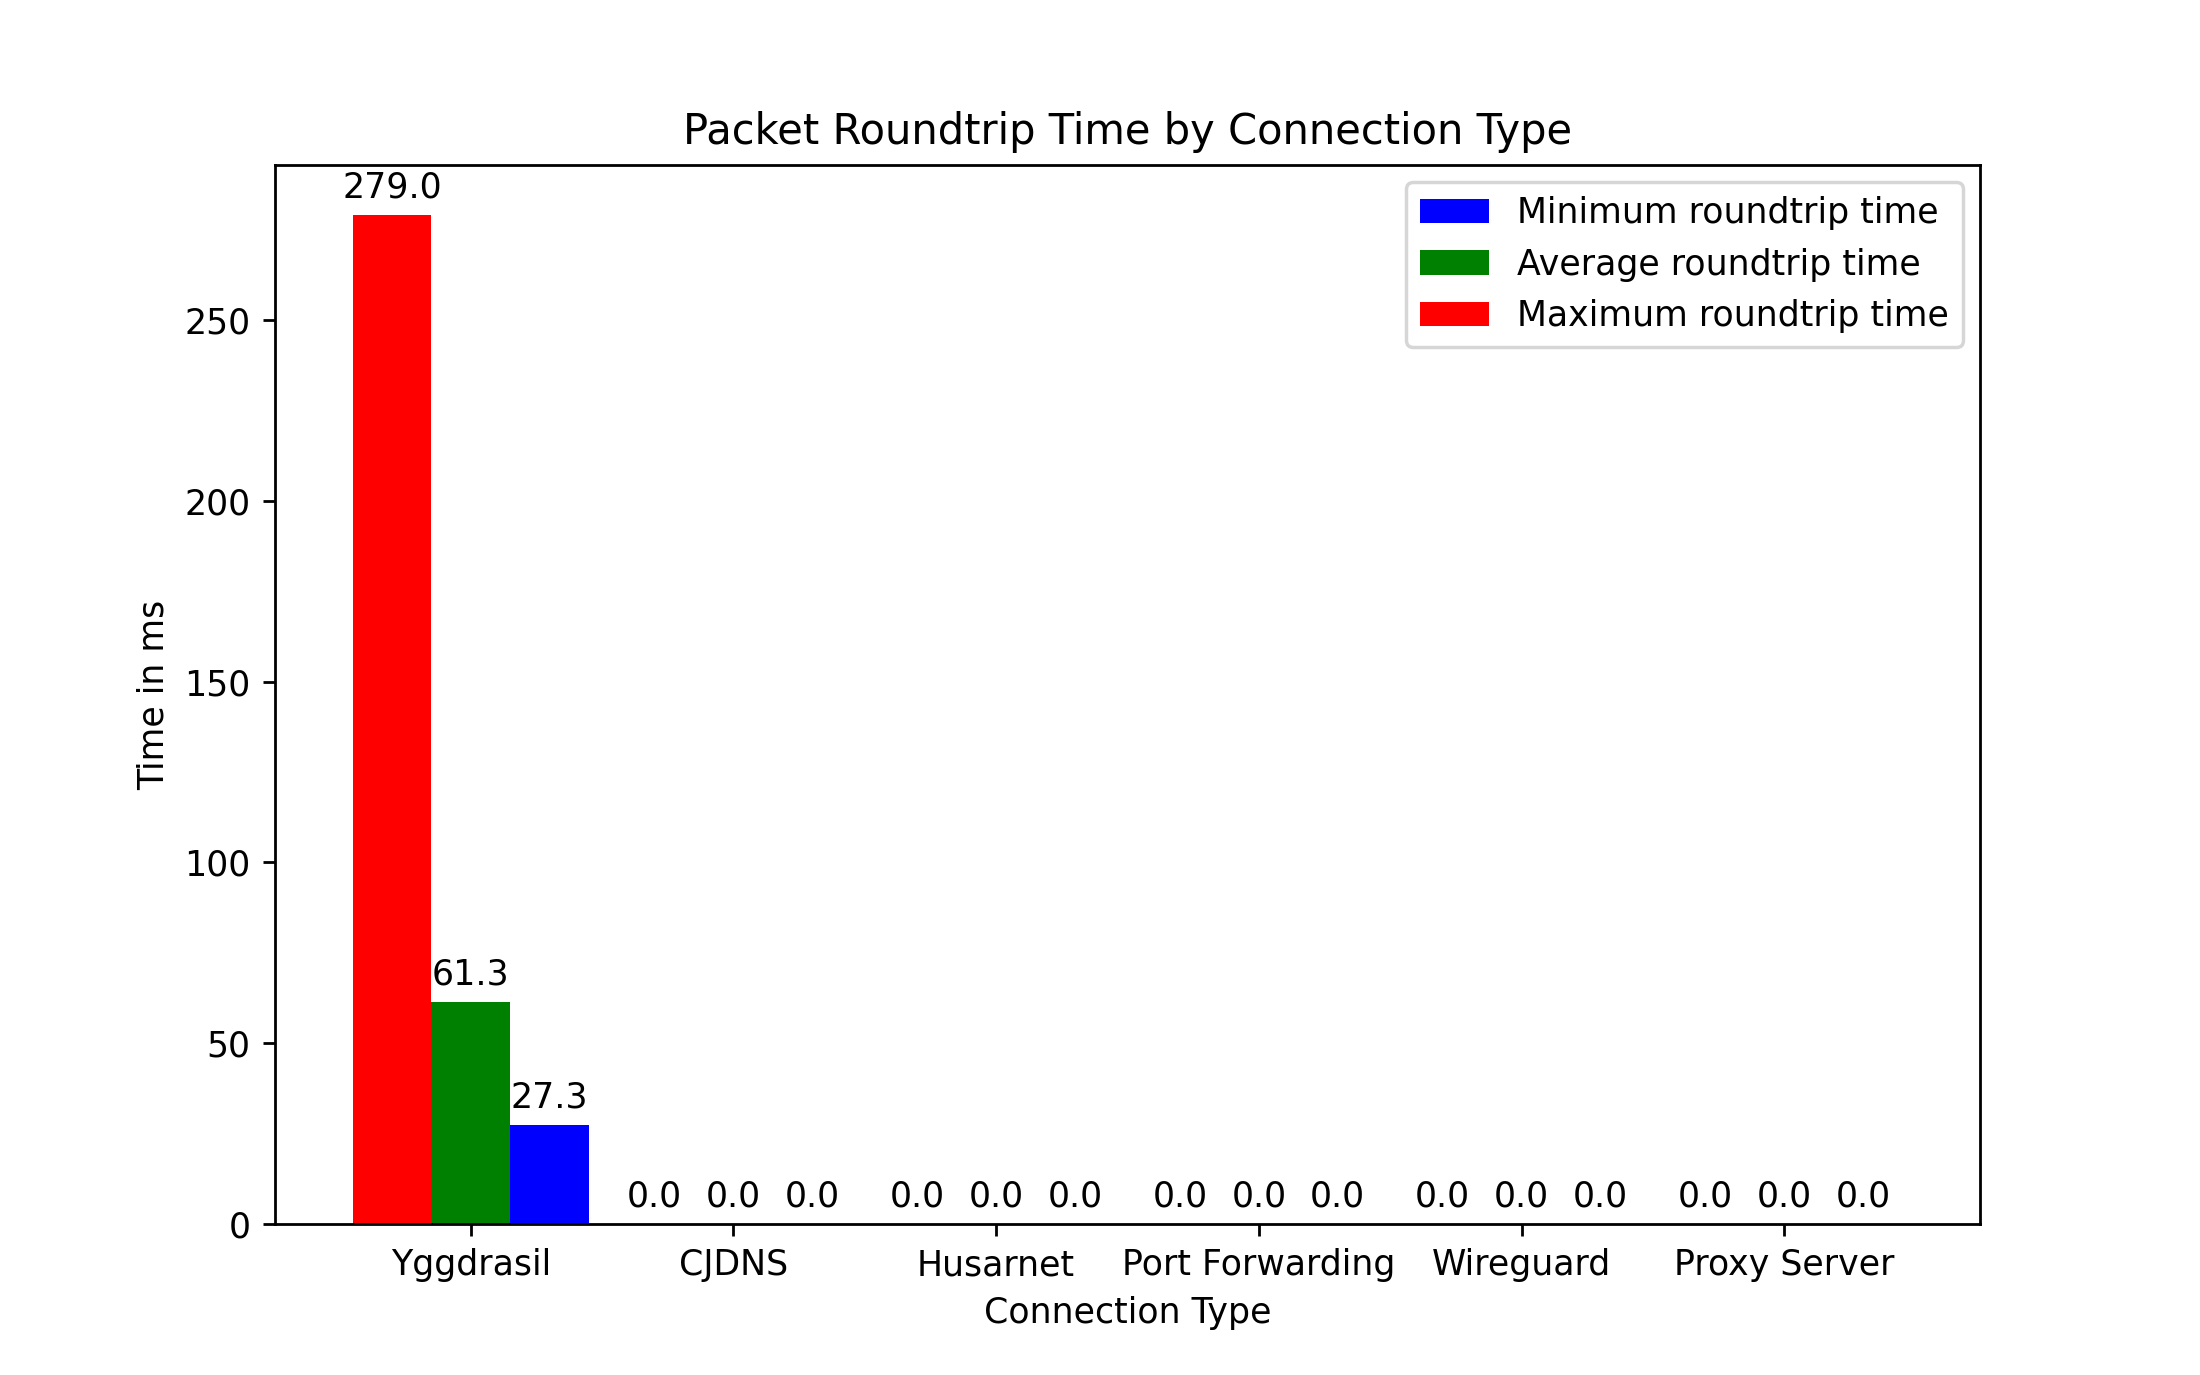
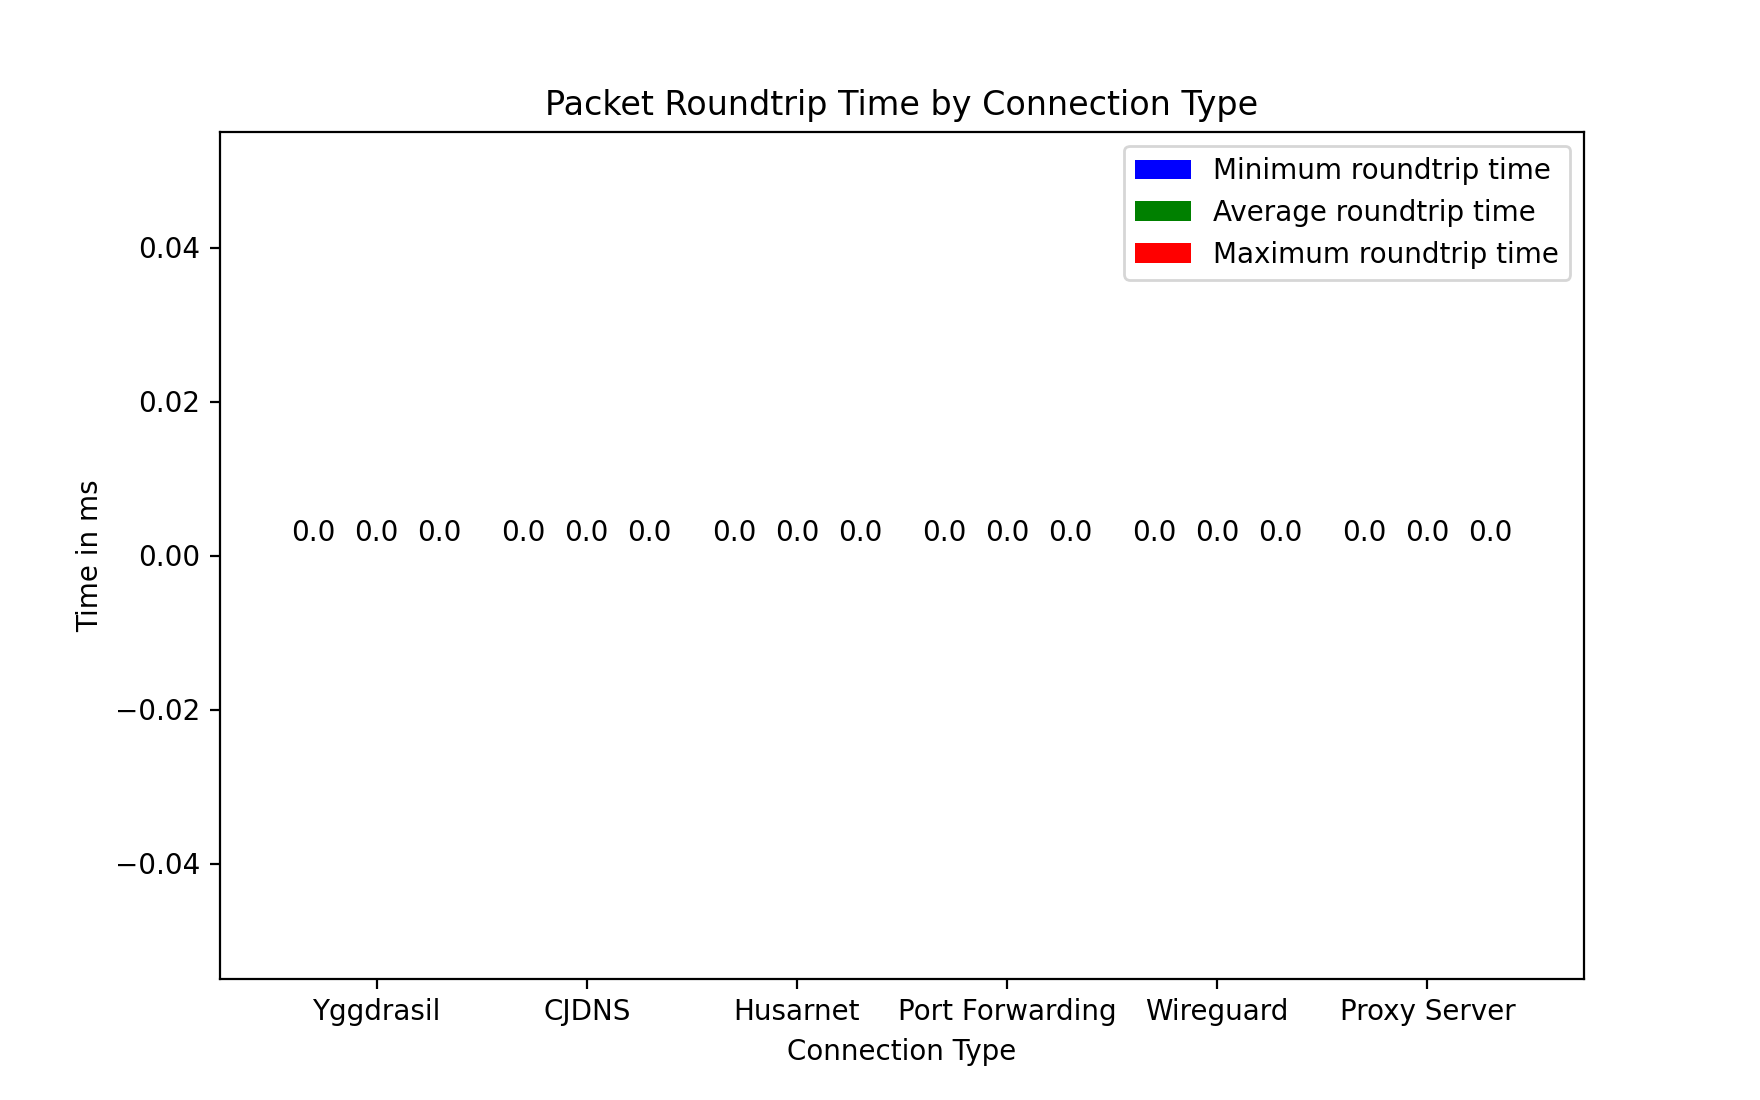
missing -u error ghost still around, but works :)

diff --git a/src/plotscript.py b/src/plotscript.py
@@ -2,11 +2,14 @@
 import matplotlib.pyplot as plt
 import pandas as pd
 import os
+import pathlib
 import argparse
 
-"""
-Setup
-"""
+###########
+# Setup
+############
+
+print("Setting up...") 
 
 parser = argparse.ArgumentParser(
     prog="./plotscript", description='Plot the results of the tests performed in network-test-script.sh')
@@ -15,23 +18,18 @@ parser.add_argument(
 args = parser.parse_args()
 path = args.path
 
-fileList = os.listdir(path)
-
+folderList = os.listdir(path)
 
 # create array for the methods to map to numbers
-
-print("Setting up...") 
 
 methods = ["Yggdrasil", "CJDNS", "Husarnet",
            "Port Forwarding", "Wireguard", "Proxy Server"]
 
-
-_ = os.path.dirname(__file__)
+run_loc = pathlib.Path(__file__).parent.absolute()
 
 x = list(range(6))  # 6 methods being tested
 
 plt.figure(figsize=(8.8, 5.5))
-
 
 def autolabel(rects):
     """Attach a text label above each bar in *rects*, displaying its height."""
@@ -41,20 +39,19 @@ def autolabel(rects):
                     xy=(rect.get_x() + rect.get_width() / 2, height),
                     xytext=(0, 3),  # 3 points vertical offset
                     textcoords="offset points",
-
                     ha='center', va='bottom')
 
-
-iperf_servers = []
-iperf_clients = []
-min_ping = []
-max_ping = []
-avg_ping = []
-ssh_upload = []
-ssh_download = []
-
+# init empty arrays
+iperf_servers = [0] * 6
+iperf_clients = [0] * 6
+min_ping = [0] * 6
+max_ping = [0] * 6
+avg_ping = [0] * 6
+ssh_upload = [0] * 6
+ssh_download = [0] * 6
 
 print("Setup complete.\n Generating iperf TCP chart...")
+
 
 ###################
 # plot iperf tcp data
@@ -62,23 +59,20 @@ print("Setup complete.\n Generating iperf TCP chart...")
 
 rel_path = path + "/iperf_tcp_test/"
 filelist = os.listdir(rel_path)
-for x in filelist:
-    if x.endswith(".csv") and x.startswith("iperf_tcp"):
-        try:
-            with pd.read_csv(rel_path + x) as data:
-                # compute averages and plot those
-                A = list(data['bits_per_second'])
-                Ae = A[0::2]
-                Ao = A[1::2]
-                av1 = sum(Ae)/(len(Ae)*1000000)
-                av2 = sum(Ao)/(len(Ao)*1000000)
+for a in filelist:
+    if a.endswith(".csv"):
+        data = pd.read_csv(rel_path + a)
+        # compute averages and plot those
+        A = list(data['bits_per_second'])
+        Ae = A[0::2]
+        Ao = A[1::2]
+        # print(Ae)
+        av1 = sum(Ae)/(len(Ae)*1000000)
+        av2 = sum(Ao)/(len(Ao)*1000000)
 
-                # append to to clients and servers lists
-                iperf_servers.append(av2)
-                iperf_clients.append(av1)
-        except:
-            pass
-
+        # append to to clients and servers lists
+        iperf_servers[filelist.index(a)] = av1
+        iperf_clients[filelist.index(a)] = av2
 
 # setup graph
 ax = plt.subplot(111, label="iperf_tcp")
@@ -93,13 +87,13 @@ ax.set_xticklabels(methods)
 plt.ylabel('Speed in Mbps')
 plt.xlabel('Connection Type')
 
-plt.savefig(_ + "/../charts/iperf_udp_chart.png", dpi=200)
-
+# export
+plt.savefig(str(run_loc) + "/../charts/iperf_tcp_chart.png", dpi=200)
 
 # CLEANUP
 # drop the arrays with the iperf data
-iperf_servers.clear()
-iperf_clients.clear()
+iperf_servers = [0] * 6
+iperf_clients = [0] * 6
 
 # clear legend for axes
 ax.get_legend().remove()
@@ -114,23 +108,19 @@ print("iPerf TCP chart generated successfully!\nGenerating iPerf UDP chart...")
 
 rel_path = path + "/iperf_udp_test/"
 filelist = os.listdir(rel_path)
-for x in filelist:
-    if x.endswith(".csv") and x.startswith("iperf_udp"):
-        try:
-            with pd.read_csv(rel_path + x) as data:
-                # compute averages and plot those
-                A = list(data['bits_per_second'])
-                Ae = A[0::2]
-                Ao = A[1::2]
-                av1 = sum(Ae)/(len(Ae)*1000000)
-                av2 = sum(Ao)/(len(Ao)*1000000)
+for a in filelist:
+    if a.endswith(".csv") and a.startswith("iperf_udp"):
+        # compute averages and plot those
+        data = pd.read_csv(rel_path + a)
+        A = list(data['bits_per_second'])
+        Ae = A[0::2]
+        Ao = A[1::2]
+        av1 = sum(Ae)/(len(Ae)*1000000)
+        av2 = sum(Ao)/(len(Ao)*1000000)
 
-                # append to to clients and servers lists
-                iperf_servers.append(av2)
-                iperf_clients.append(av1)
-        except:
-            pass
-
+        # append to to clients and servers lists
+        iperf_servers[filelist.index(a)] = av1
+        iperf_clients[filelist.index(a)] = av2
 
 ax = plt.subplot(111, label="iperf_udp")
 l1 = ax.bar(x, iperf_servers, width=0.3, color='b', align='edge')
@@ -144,16 +134,17 @@ ax.set_xticklabels(methods)
 plt.ylabel('Speed in Mbps')
 plt.xlabel('Connection Type')
 
-plt.savefig(_ + "/../charts/iperf_udp_chart.png", dpi=200)
+plt.savefig(str(run_loc) + "/../charts/iperf_udp_chart.png", dpi=200)
 
 # CLEANUP
 # drop the arrays with the iperf data
-iperf_servers.clear()
-iperf_clients.clear()
+iperf_servers = [0] * 6
+iperf_clients = [0] * 6
 
 # clear legend for axes
 ax.get_legend().remove()
 plt.cla()
+
 
 print("iPerf UDP chart generated successfully!\nGenerating ping chart...")
 
@@ -162,23 +153,21 @@ print("iPerf UDP chart generated successfully!\nGenerating ping chart...")
 # plot ping data
 ###################
 
-rel_path = path + "/iperf_udp_test/"
+rel_path = path + "/ping_test/"
 filelist = os.listdir(rel_path)
-for x in filelist:
-    if x.endswith(".csv") and x.startswith("iperf_udp"):
-        try:
-            with pd.read_csv(rel_path + x) as data:
-                # compute averages and plot those
-                C = list(data['roundtrip_time'])
-                min_A = min(A)
-                max_A = max(A)
-                avg_A = sum(A)/len(A)
+for a in filelist:
+    if a.endswith(".csv") and a.startswith("ping"):
+        data = pd.read_csv(rel_path + a)
+        # compute averages and plot those
+        A = list(data['roundtrip_time'])
+        min_A = min(A)
+        max_A = max(A)
+        avg_A = sum(A)/len(A)
 
-                min_ping.append(min_A)
-                max_ping.append(max_A)
-                avg_ping.append(avg_A)
-        except:
-            pass
+        print(avg_A)
+        min_ping[filelist.index(a)] = min_A
+        max_ping[filelist.index(a)] = max_A
+        avg_ping[filelist.index(a)] = avg_A
 
 
 ax = plt.subplot(111, label="ping")
@@ -197,7 +186,7 @@ autolabel(l3)
 plt.xlabel('Connection Type')
 plt.ylabel('Time in ms')
 
-plt.savefig(_ + "/../charts/ping_chart.png", dpi=250)
+plt.savefig(str(run_loc) + "/../charts/ping_chart.png", dpi=200)
 
 # CLEANUP
 # drop the arrays with the iperf data
@@ -216,24 +205,21 @@ print("Ping chart generated successfully!\nGenerating ssh speed graphs...")
 # plot ssh speed data
 ###################
 
-rel_path = path + "/iperf_udp_test/"
+rel_path = path + "/ssh_test/"
 filelist = os.listdir(rel_path)
-for x in filelist:
-    if x.endswith(".csv") and x.startswith("iperf_udp"):
-        try:
-            with pd.read_csv(rel_path + x) as data:
-                # compute averages and plot those
-                U = list(data['Upload_Speed'])
-                D = list(data['Download_Speed'])
+for a in filelist:
+    if a.endswith(".csv"):
+        data = pd.read_csv(rel_path + a)
+        # compute averages and plot those
+        U = list(data['Upload_speed'])
+        D = list(data['Download_speed'])
 
-                avg_U = sum(U)/len(U)
-                avg_D = sum(D)/len(D)
+        avg_U = sum(U)/len(U)
+        avg_D = sum(D)/len(D)
 
-                ssh_upload.append(avg_U)
-                ssh_download.append(avg_D)
+        ssh_upload[filelist.index(a)] = avg_U
+        ssh_download[filelist.index(a)] = avg_D
 
-        except:
-            pass
                 
 
 ax = plt.subplot(111, label="ssh")
@@ -248,7 +234,8 @@ autolabel(l2)
 plt.xlabel('Connection Type')
 plt.ylabel('Speed in Mbps')
 
-plt.savefig(_ + "/../charts/ssh_chart.png", dpi=200)
+plt.savefig(str(run_loc) + "/../charts/ssh_chart.png", dpi=200)
 
-## complete!
+
+# complete!
 print("All charts generated successfully!")
